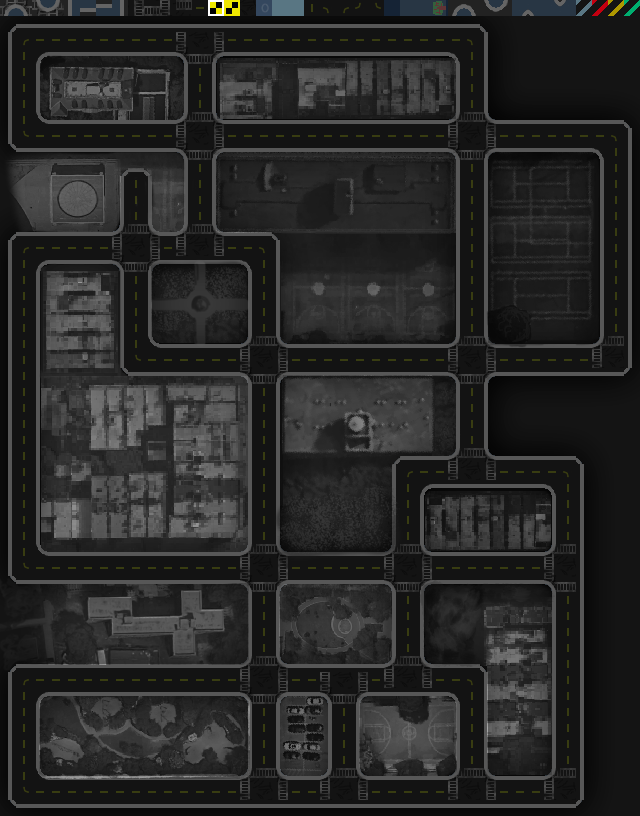
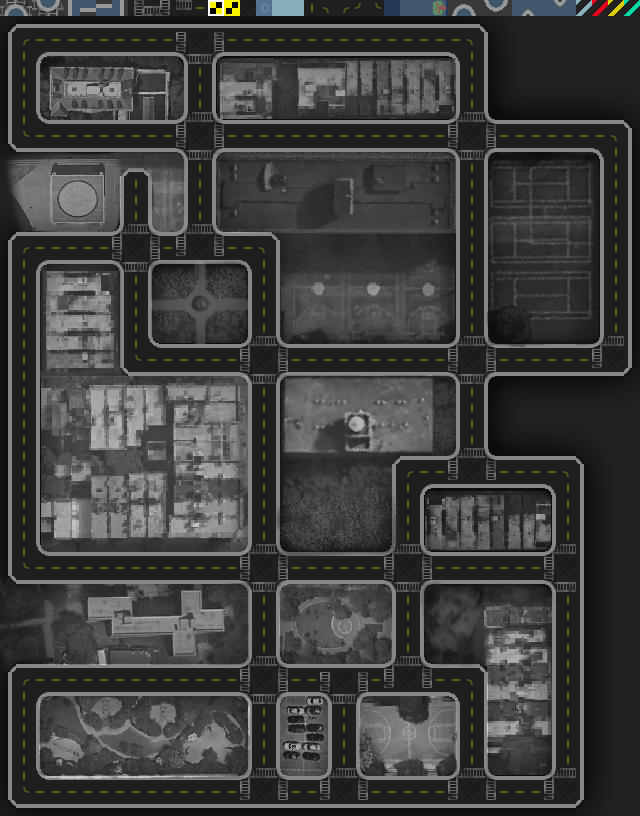
lighten up the game board, a bit easier to see, especially on screens that are dimmed

diff --git a/CordonSanitaire-Meteor.html b/CordonSanitaire-Meteor.html
@@ -192,7 +192,7 @@
 
     <!-- Container for Phaser Game -->
     <div id="map-container"
-         style="background:rgb(20,20,20); {{#if isGameZoomedOut}} padding-top: 70px; padding-bottom: {{gameBottomPadding}}px;{{/if}}">
+         style="{{#if isGameZoomedOut}} padding-top: 70px; padding-bottom: {{gameBottomPadding}}px;{{/if}}">
         {{> worldBoard gameId=gameId}}
     </div>
 </template>

diff --git a/CordonSanitaire-Meteor.css b/CordonSanitaire-Meteor.css
@@ -712,3 +712,7 @@ start of game */
     right: 20px;
     bottom: 20px;
 }
+
+#map-container{
+    background:rgb(33,33,33);
+}
